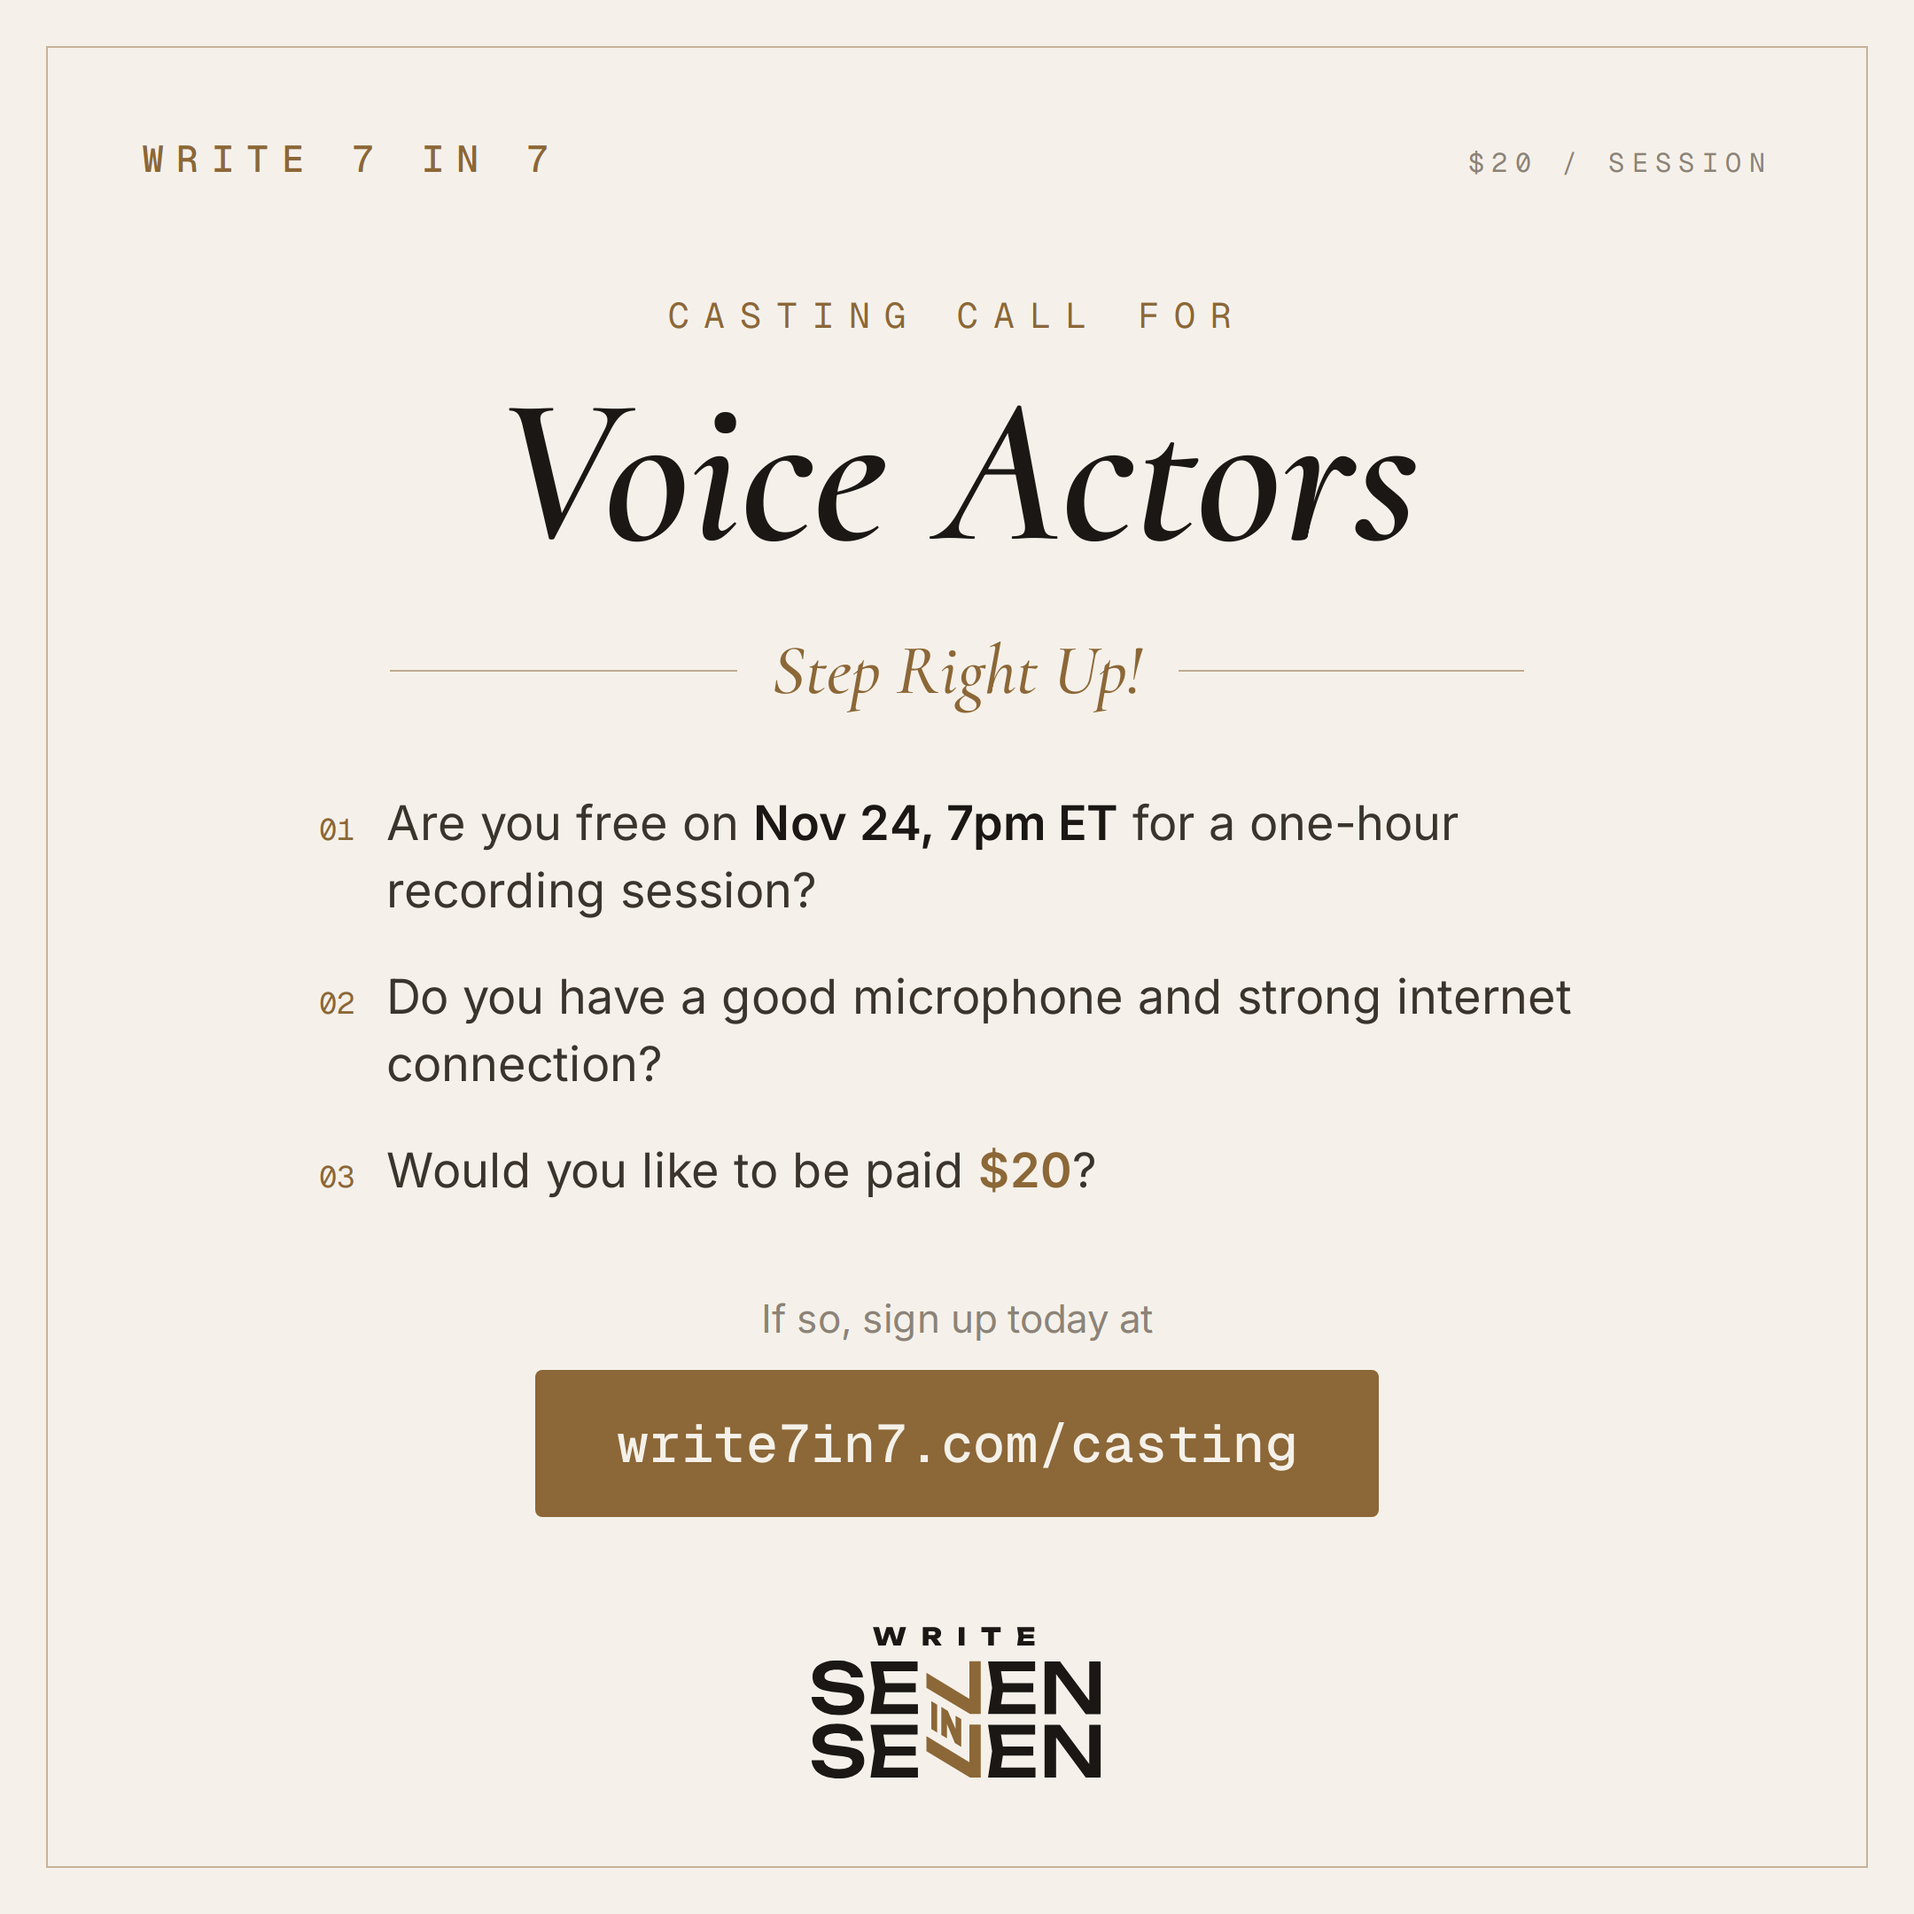
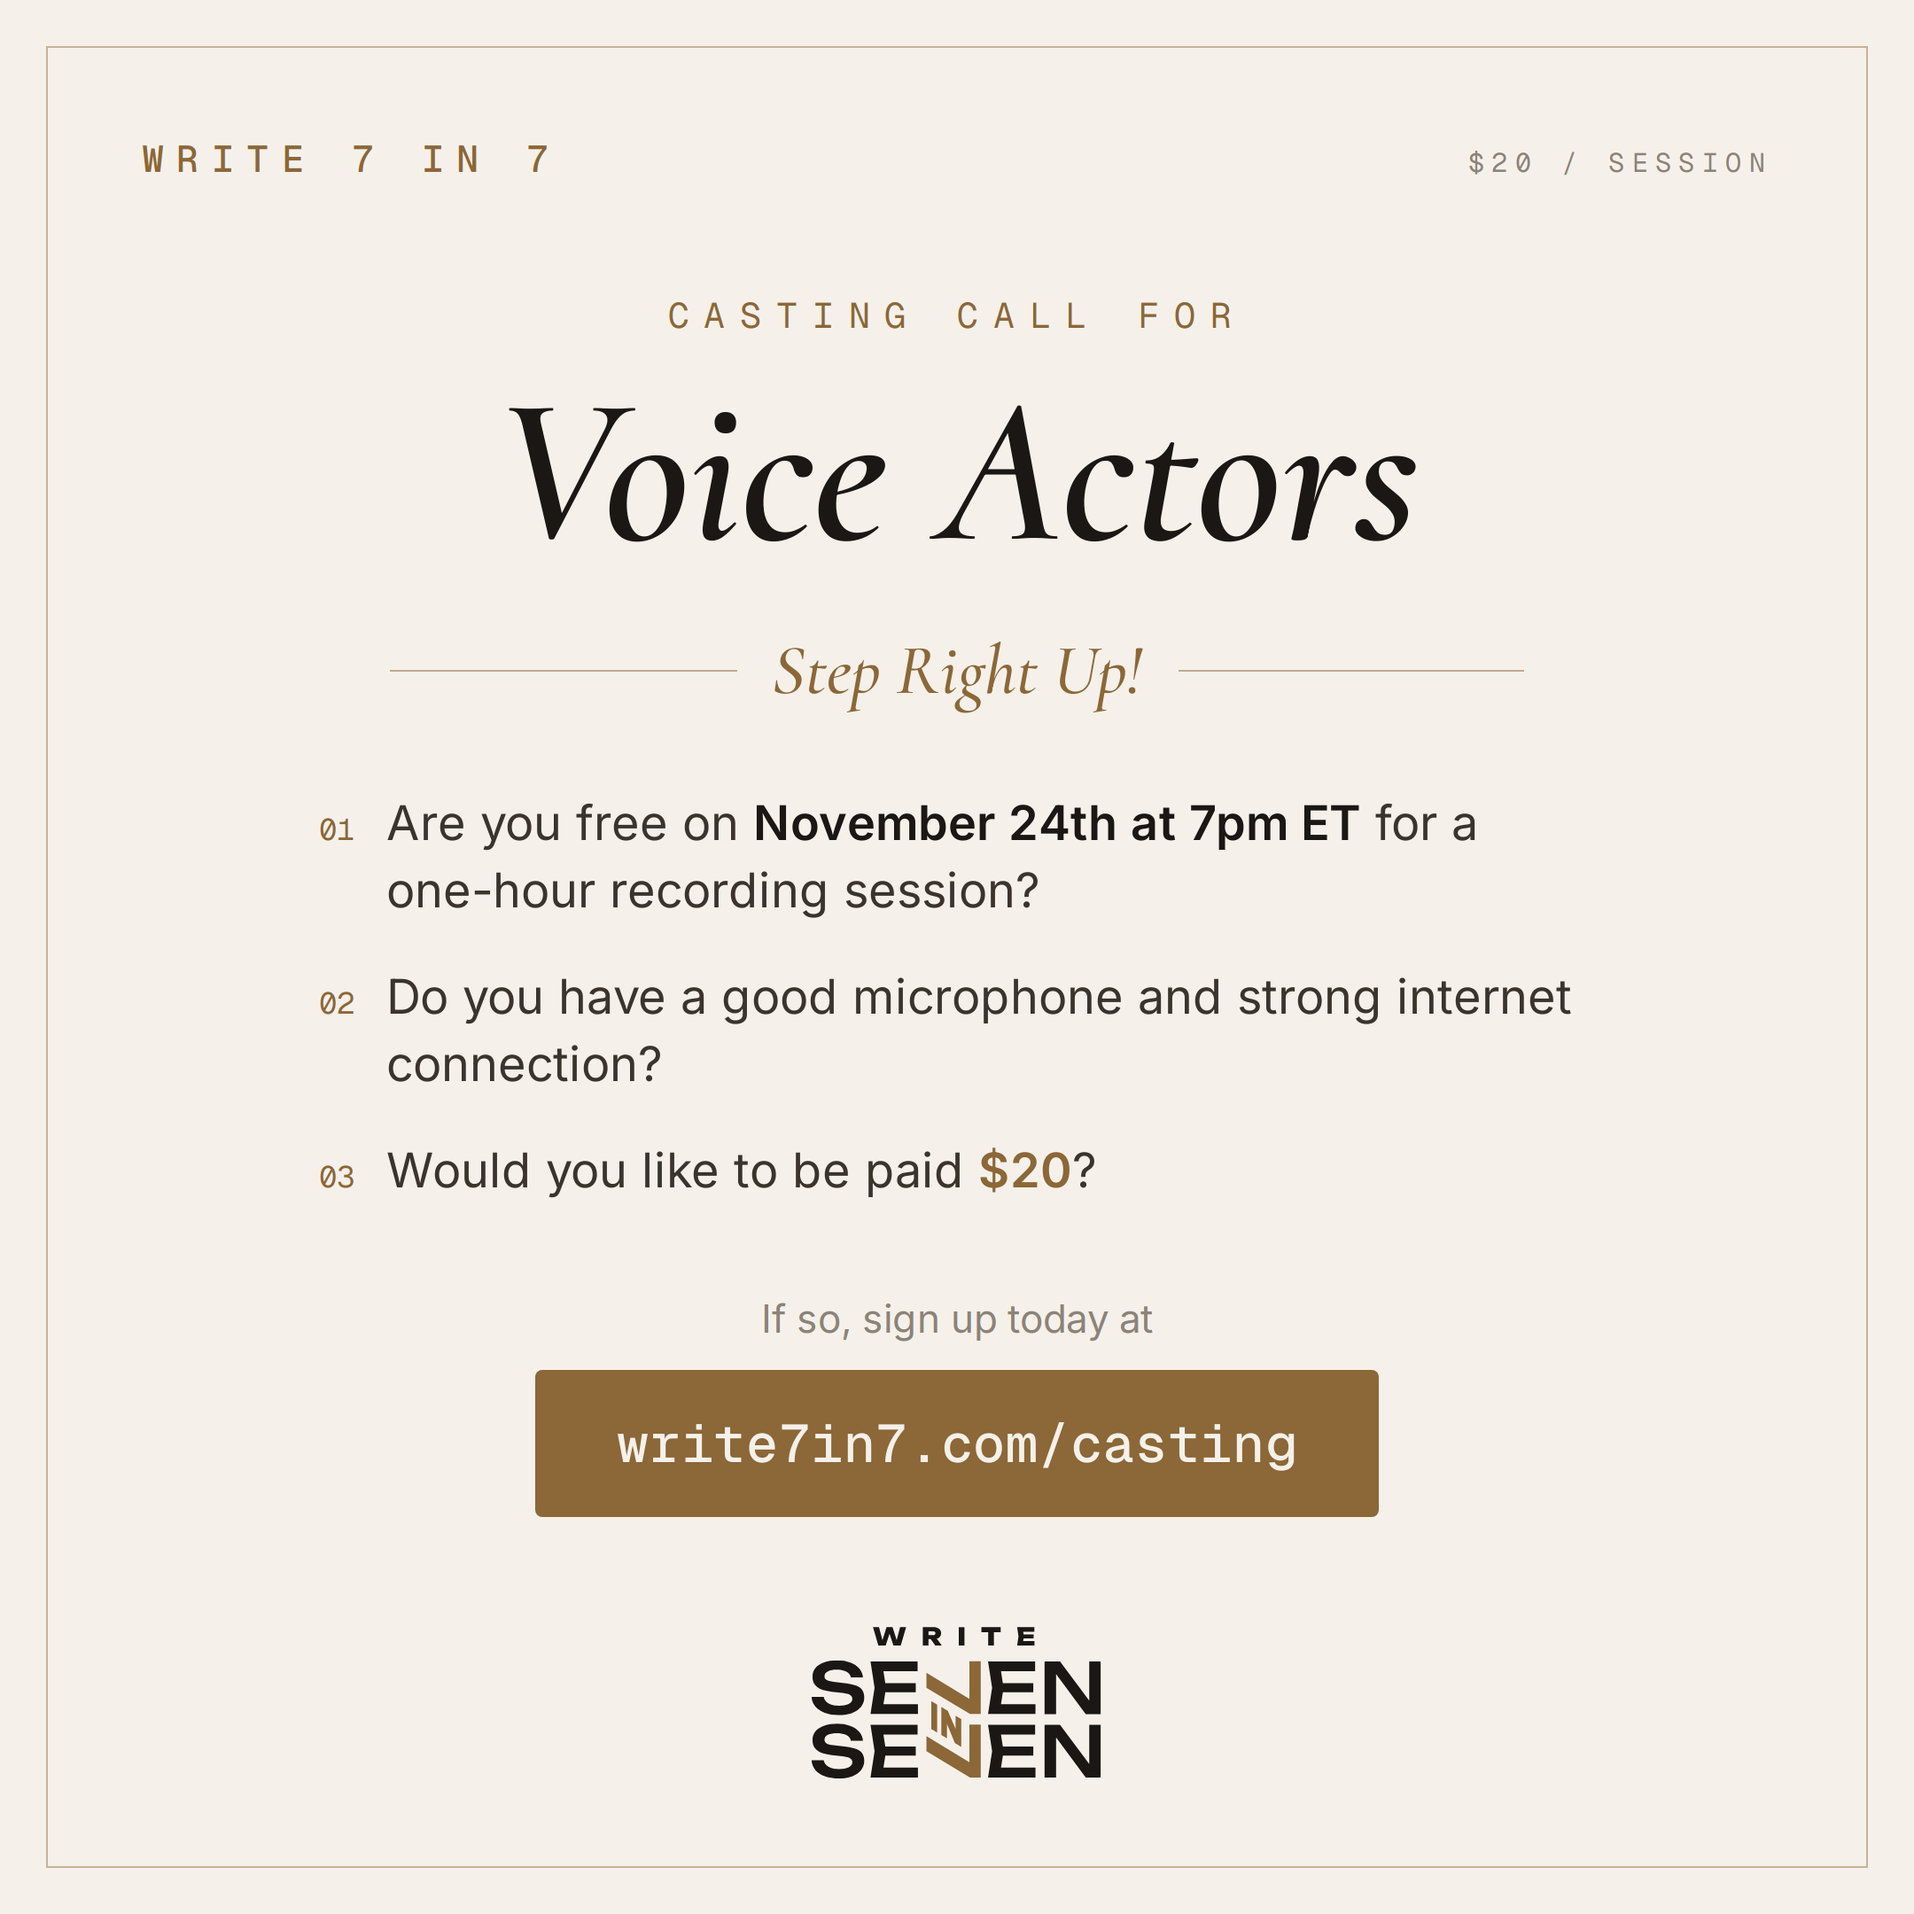
Casting call update (repository_dispatch)

Changed region(s): [[0.2171, 0.4032, 0.7755, 0.4963]]

diff --git a/casting/index.html b/casting/index.html
@@ -11,7 +11,7 @@
     link) is generated from that one value automatically.
   -->
   <script>
-    var CASTING_CALL_FORM_URL = "https://forms.gle/EiE9VWgDXJEZ45cC6";
+    var CASTING_CALL_FORM_URL = "https://forms.gle/Wr6cVZUF1hFT1cjv6";
     document.write('<meta http-equiv="refresh" content="0; url=' + CASTING_CALL_FORM_URL + '">');
     document.write('<link rel="canonical" href="' + CASTING_CALL_FORM_URL + '">');
     window.location.replace(CASTING_CALL_FORM_URL);
